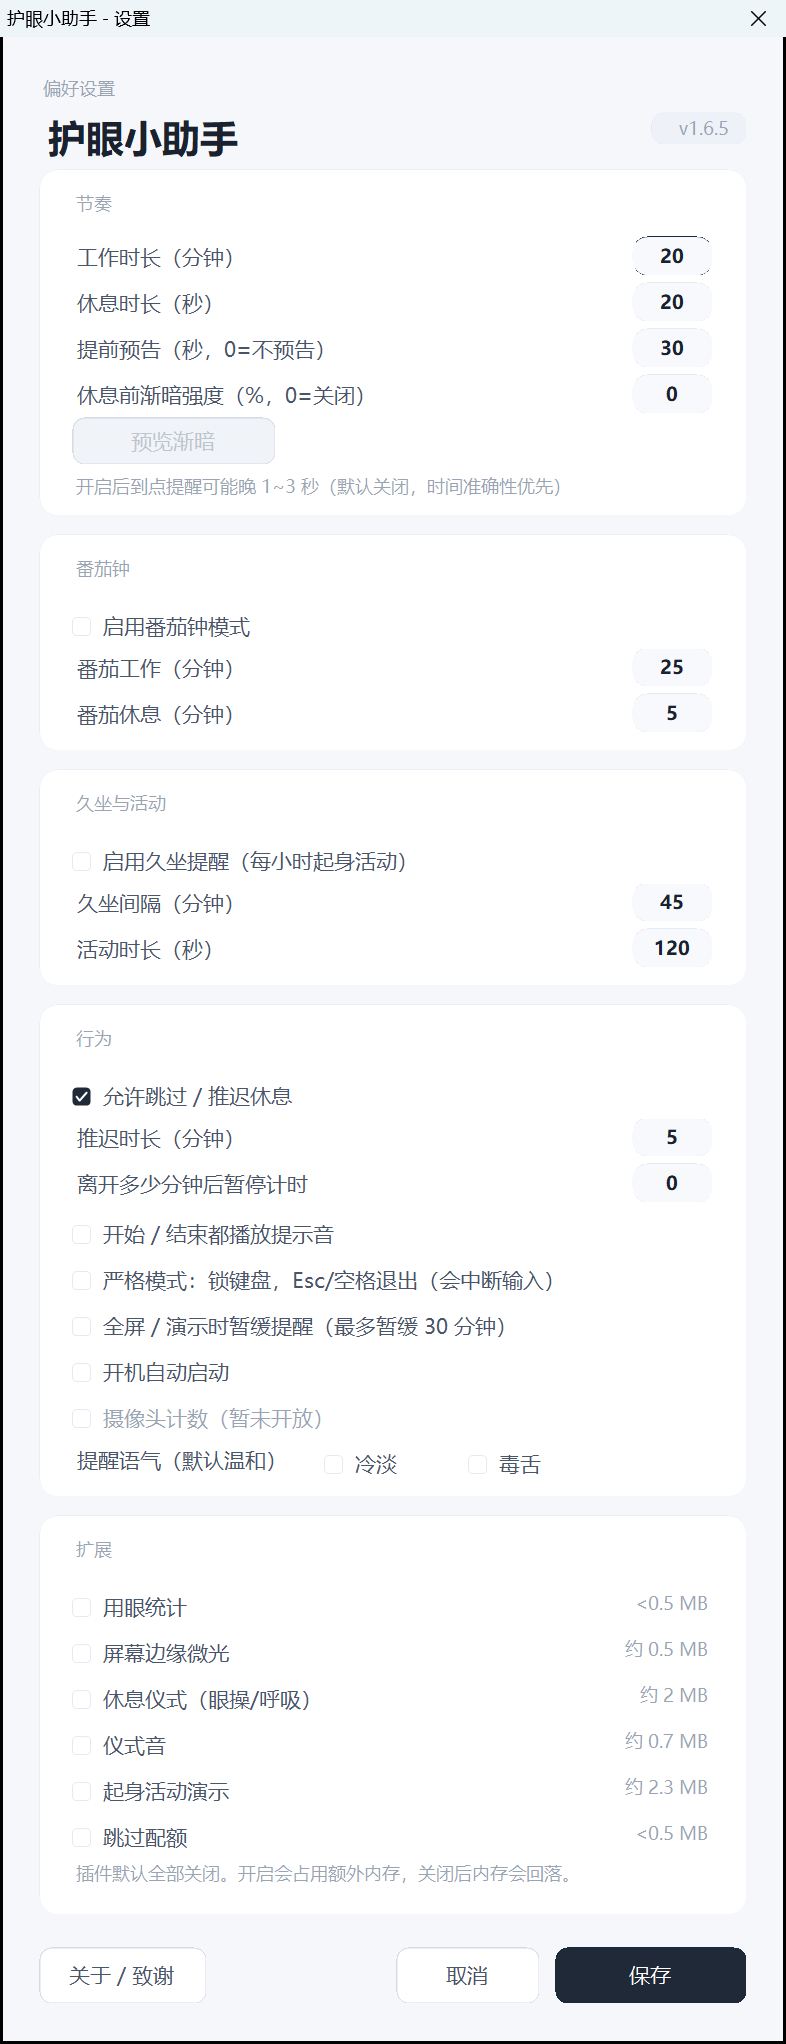
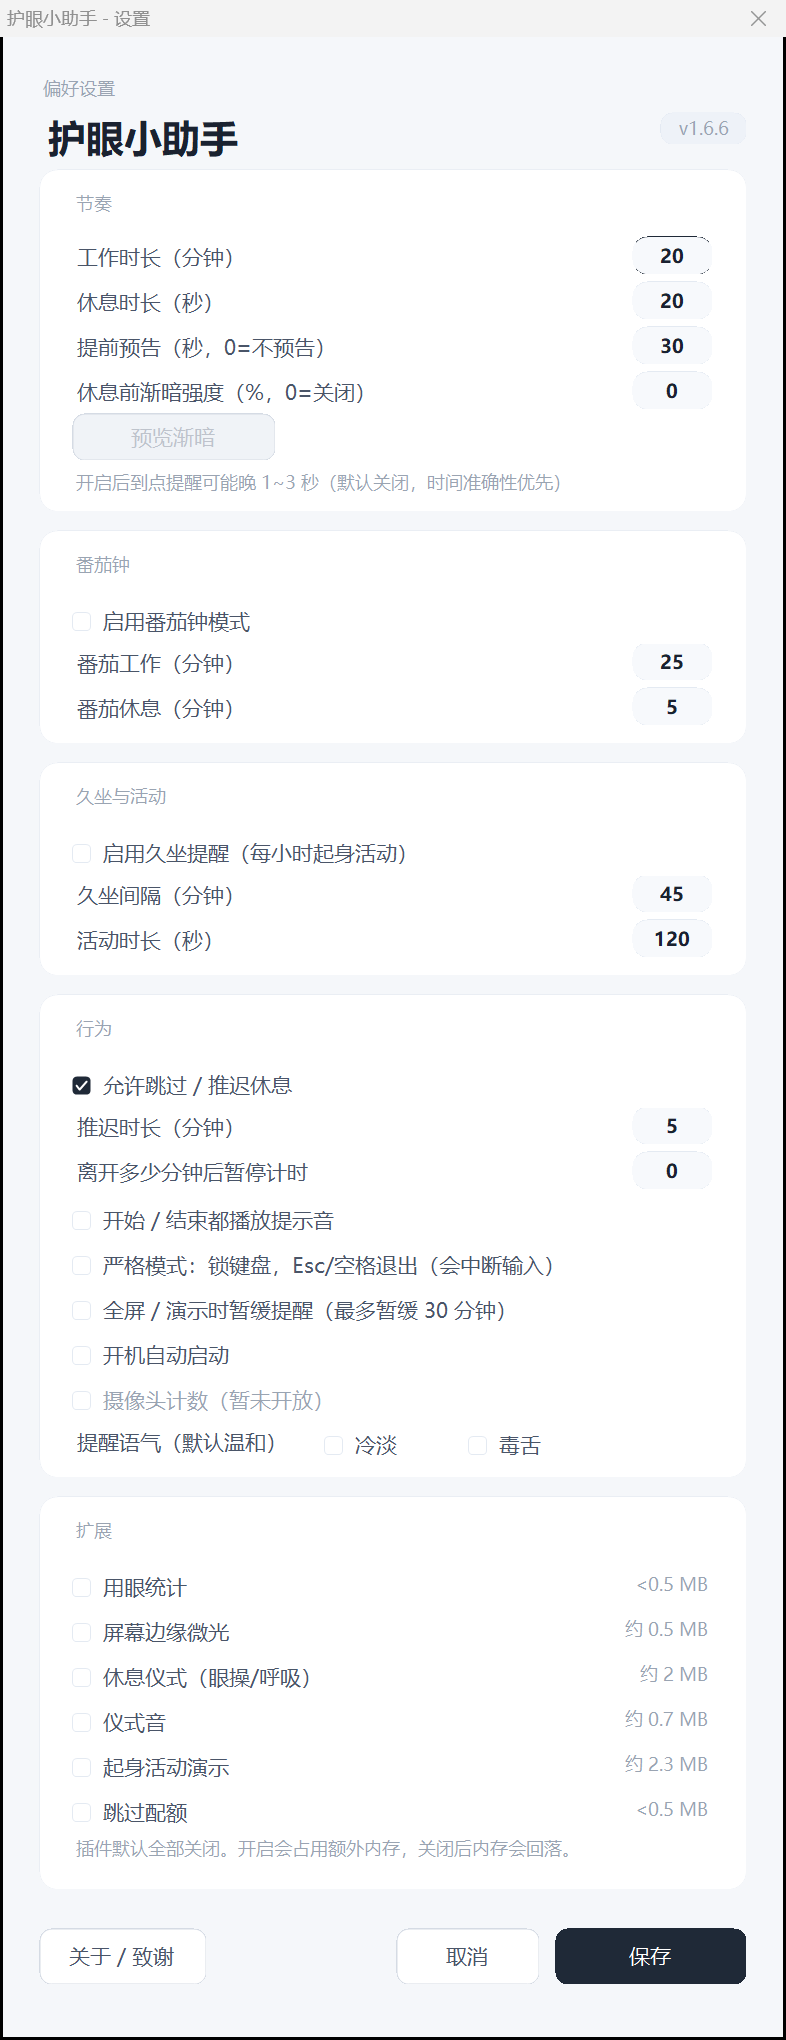
fix: 版本号显示被裁（chip 固定宽）+ exe 带文件版本与带版本号的文件名；并修上一轮误伤设置页的回归
用户："下次能不能 exe 文件加上版本号，我现在都不知道是哪个版本了。"

## 一、真问题：设置页右上角的版本 chip 被裁成 "v1.6"

`chipW` 写死 `Sc(64)`，"v1.6.6" 比 "v1.6.1" 宽一点，最后一位被切掉 ——
用户看到的 "v1.6" 就是他"不知道版本"的直接原因。
改成 `TextRenderer.MeasureText(Ui.AppVersion).Width + Sc(18)`：
版本号以后会涨到 v1.6.10，写死宽度必然再次裁字。

## 二、exe 文件属性带版本

新增程序集元信息：AssemblyTitle / Product / Description / Version / FileVersion。
右键 → 属性 → 详细信息 现在能看到 1.6.6.0。

注意这是**编译期**资源，与设置页那个**运行时**的 `Ui.AppVersion` 是两回事，
必须手工保持一致 —— 改版本时同步三处，注释里写清了。

## 三、发布包里的 exe 带版本号

`tools/make-release.py` 打包时把 `EyeLite.exe` 以 **`EyeLite-v1.6.6.exe`** 的名字写进 zip。
源码树仍叫 `EyeLite.exe`：tools/ 下几十个测试脚本都按这个名字找它，改名会全线失效。
FINGERPRINT.txt 里的文件名也同步改了。

## 四、修一个我上一轮引入的回归（重要）

上一轮做"屏幕百分比"时，我用字符串匹配把 `Sc(px) = px * dpiScale` 改成了 `px * k`，
**误伤了 SettingsForm**（几个类的实现一模一样），把它的 Sc 也改成了 k，
而 SettingsForm 里的 k 从未赋值、恒为 1 —— 整个设置页按 100% 缩放（窗口 526×1745）。

发现它靠的是新加的 `EYE_LITE_TRACE_LAYOUT` 钩子：打印出
`dpi=1.5 rowH=43 clientW=520` —— **dpi 是 1.5 但宽度只有 520**，
两个数一对照就锁定"Sc 用的不是 dpiScale"。

修复：
- 删掉误插进 SettingsForm 的整段 k/CalcF/F 基础设施
- Sc 改回 `px * dpiScale`（设置页是对话框，按物理尺寸一致才是对的）
- 行间留白 Sc(6) → Sc(5)：4K@150% 下整页 2000px，正好落在可装高度 2004 内

实测：clientW=780 / clientH=2000，窗口 786×2040，无滚动条，与 v1.6.5 几何一致。

diff --git a/src/Program.cs b/src/Program.cs
@@ -23,6 +23,22 @@ using System.Text;
 using System.Windows.Forms;
 using Microsoft.Win32;
 
+// =====================================================================
+//  程序集元信息 —— exe 右键「属性 → 详细信息」里看到的就是这几行。
+//
+//  为什么要写：用户反馈"我现在都不知道是哪个版本了"。
+//  设置页里那个 chip 是**运行时**读 Ui.AppVersion；而文件属性是**编译期**资源，
+//  两者必须一致，否则"界面说 v1.6.6、属性说 1.6.5"会让人更糊涂。
+//  改版本时同步三处：Ui.AppVersion、AssemblyVersion、AssemblyFileVersion
+//  （后两个必须是字面量，不能引用常量），`tools/precheck-provenance.py` 会核对。
+// =====================================================================
+[assembly: System.Reflection.AssemblyTitle("护眼小助手 EyeLite")]
+[assembly: System.Reflection.AssemblyProduct("EyeLite")]
+[assembly: System.Reflection.AssemblyDescription("托盘护眼提醒：20-20-20 + 番茄钟，单文件零依赖")]
+[assembly: System.Reflection.AssemblyCopyright("MIT License")]
+[assembly: System.Reflection.AssemblyVersion("1.6.6.0")]
+[assembly: System.Reflection.AssemblyFileVersion("1.6.6.0")]
+
 namespace EyeLite
 {
     // ================================================================
@@ -297,7 +313,11 @@ namespace EyeLite
         private static extern int GetDeviceCaps(IntPtr hdc, int index);
 
         /// <summary>设置面板上显示的版本号；发布时与 git tag 同步，只改这一处。</summary>
-        public const string AppVersion = "v1.6.5";
+        // ---- 版本号：**只改这一处** ----
+        // 设置页右上角的 chip、exe 文件属性（右键 → 详细信息）都以它为准。
+        // 改这里的同时要改下面 Program.cs 顶部的 AssemblyVersion/AssemblyFileVersion
+        // —— 那两个是编译期常量，不能引用运行时字符串。tools/precheck 会核对两者是否一致。
+        public const string AppVersion = "v1.6.6";
 
         /// <summary>圆角矩形路径。调用方负责 Dispose。</summary>
         public static GraphicsPath RoundedRect(Rectangle r, int radius)
@@ -6237,47 +6257,9 @@ namespace EyeLite
         private float dpiScale = 1f;
 
         // 与 RestForm 同义：px 是设计基准下的像素，k 是屏幕占比系数
-        // ---- 与遮罩/跟练同一套：布局按屏幕占比，不按 DPI ----
-        private const int DesignW = 1920;
-        private const int DesignH = 1080;
-        private float k = 1f;
-        private Dictionary<int, Font> fontCache;
-
-        private static float CalcK()
-        {
-            try
-            {
-                Rectangle b = Screen.PrimaryScreen.Bounds;
-                float dpi = Ui.Scale <= 0f ? 1f : Ui.Scale;
-                float kx = (b.Width / dpi) / (float)DesignW;
-                float ky = (b.Height / dpi) / (float)DesignH;
-                float v = kx < ky ? kx : ky;
-                if (v < 0.5f) v = 0.5f;
-                if (v > 4f) v = 4f;
-                return v;
-            }
-            catch { return 1f; }
-        }
-
-        private Font F(float basePt)
-        {
-            if (fontCache == null) fontCache = new Dictionary<int, Font>();
-            int key = (int)(basePt * 10);
-            Font f;
-            if (fontCache.TryGetValue(key, out f)) return f;
-            float dpi = Ui.Scale <= 0f ? 1f : Ui.Scale;
-            float pt = basePt * k / dpi;
-            if (pt < 4f) pt = 4f;
-            if (pt > 96f) pt = 96f;
-            try { f = new Font("微软雅黑", pt, FontStyle.Regular); }
-            catch { f = SystemFonts.DefaultFont; }
-            fontCache[key] = f;
-            return f;
-        }
-
         private int Sc(int px)
         {
-            return (int)(px * k + 0.5f);   // 不用 Math.Round：避免银行家舍入的 ±1px 抖动
+            return (int)(px * dpiScale + 0.5f);   // 不用 Math.Round：避免银行家舍入的 ±1px 抖动
         }
 
         public SettingsForm(AppConfig cfg)
@@ -6289,7 +6271,7 @@ namespace EyeLite
             // 再小上下两行的圆角容器会贴在一起（v1.6.1 那根"柱子"就是这么来的）。
             int numTextH = Ui.TextH(Ui.FontNumInput);
             int labelTextH = Ui.TextH(Ui.FontRowLabel);
-            rowH = numTextH + Sc(6);
+            rowH = numTextH + Sc(5);   // 留白 5：4K@150% 下正好让整页落在可装高度内（6 会多出 21px）
             checkH = labelTextH + Sc(10);
             if (rowH < Sc(28)) rowH = Sc(28);      // 兜底：算不出字高时退回一个能看的行高
             if (checkH < rowH) checkH = rowH;      // 复选行不比数值行矮
@@ -6321,6 +6303,20 @@ namespace EyeLite
 
             int clientW = Sc(FormW);
             int clientH = EstimateFormH();
+            try
+            {
+                string tf = Environment.GetEnvironmentVariable("EYE_LITE_TRACE_LAYOUT");
+                if (tf != null && tf.Length > 0)
+                {
+                    System.IO.File.AppendAllText(tf,
+                        "dpi=" + dpiScale + " rowH=" + rowH + " checkH=" + checkH
+                        + " firstRowTop=" + firstRowTop
+                        + " h1..h5=" + h1 + "," + h2 + "," + h3 + "," + h4 + "," + h5
+                        + " clientW=" + clientW + " clientH=" + clientH
+                        + " textH=" + Ui.TextH(Ui.FontNumInput) + Environment.NewLine);
+                }
+            }
+            catch { }
             int maxH;
             try
             {
@@ -6370,10 +6366,14 @@ namespace EyeLite
 
             // 右侧版本号：包进一个浅色 chip，与标题同一视觉行。
             // chip 右缘仍贴 Sc(CardLeft) + Sc(CardWidth)，label 在 chip 内右对齐、左右各留 Sc(8)。
+            //
+            // **宽度必须按实际文本量**：原来是固定 Sc(64)，"v1.6.6" 比 "v1.6.1" 多一点，
+            // 被裁成 "v1.6" —— 用户看到的就是"不知道自己是哪个版本"。
+            // 版本号以后会一直涨（v1.6.10 更长），写死宽度必然再次裁字。
             RoundPanel chipVersion = new RoundPanel(Sc(8),
                                                     Color.FromArgb(0xEE, 0xF2, 0xF8),
                                                     Color.FromArgb(0xE3, 0xE9, 0xF2));
-            int chipW = Sc(64);
+            int chipW = TextRenderer.MeasureText(Ui.AppVersion, Ui.FontEyebrow).Width + Sc(18);
             int chipH = Sc(22);
             // 原 label 在 Sc(52) 处高 Sc(18)，中心 61；chip 高 22，上移 2px 保持同一视觉行
             chipVersion.SetBounds(Sc(CardLeft) + Sc(CardWidth) - chipW, Sc(50), chipW, chipH);

diff --git a/tools/make-release.py b/tools/make-release.py
@@ -94,18 +94,23 @@ def main():
 
     fingerprint = (
         'EyeLite %s\n'
-        'EyeLite.exe  %d bytes  md5 %s\n'
+        'EyeLite-%s.exe  %d bytes  md5 %s\n'
         'Program.cs   md5 %s\n'
         '\n'
         '（反馈问题时请附上这两行，否则无法确认版本）\n'
-        % (ver, exe_size, exe_md5, src_md5))
+        % (ver, ver, exe_size, exe_md5, src_md5))
 
     if not os.path.isdir(DIST):
         os.makedirs(DIST)
     out = os.path.join(DIST, 'EyeLite-%s.zip' % ver)
 
+    # 包内 exe **带版本号**：用户解压出来一眼就知道是哪个版本
+    # （原话："我现在都不知道是哪个版本了"）。
+    # 源码树里仍叫 EyeLite.exe —— tools/ 下几十个测试脚本都按那个名字找它，不能动。
+    exe_name = 'EyeLite-%s.exe' % ver
+
     with zipfile.ZipFile(out, 'w', zipfile.ZIP_DEFLATED) as z:
-        z.write(EXE, 'EyeLite.exe')
+        z.write(EXE, exe_name)
         if os.path.exists(README):
             z.write(README, 'README.md')
         z.writestr('安装与使用.txt', USAGE.replace('\n', '\r\n'))
